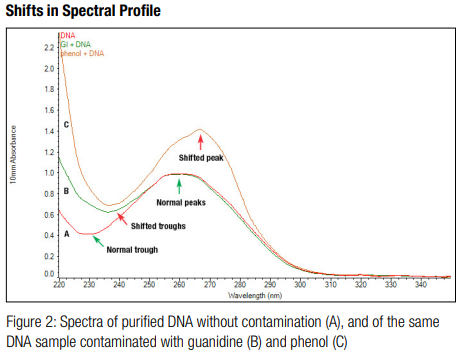
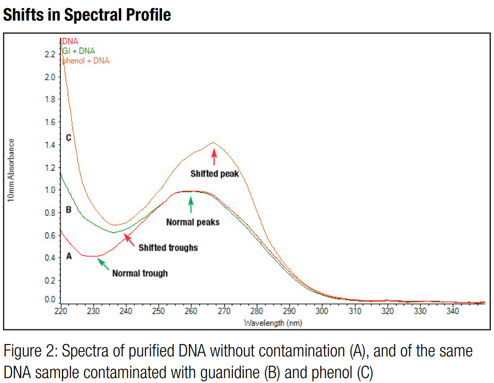
Update spectra pic

Changed region(s): [[0.0, 0.0, 1.0, 1.0]]

diff --git a/_episodes/Demo-1.md b/_episodes/Demo-1.md
@@ -28,7 +28,7 @@ Assessment of DNA samples includes: quality, quantiy, and integrity. We will int
 ### Spectrophotometer (UV-Vis)
 Absorbance measurements measure the absorbance of all molecules in the sample that absorb at the wavelength of interest. Nucleotides and proteins have highest absorbance at 260 nm and 280 nm, respectively. The ratio of absorbance at 260 nm and 280 nm is used to determine the purity of the DNA samples. The ratio of ~ 1.8 is cosidered as a pure for DNA samples. On the other hand, chemicals and organic compound (e.g., EDTA, carbohydrate, phenol) absorb at 230 nm. The ratio of 2.0-2.22 is expected as a pure for DNA sample.
 
-<img src="{{site.baseSite}}/fig/NanoDrop_spectra.png" align="center" height="500">
+<img src="{{site.baseSite}}/fig/NanoDrop_spectra.png" align="center" height="300">
 
 **Drawbacks** 
 1. Nonselctive method: could not differentiate DNA or RNA
